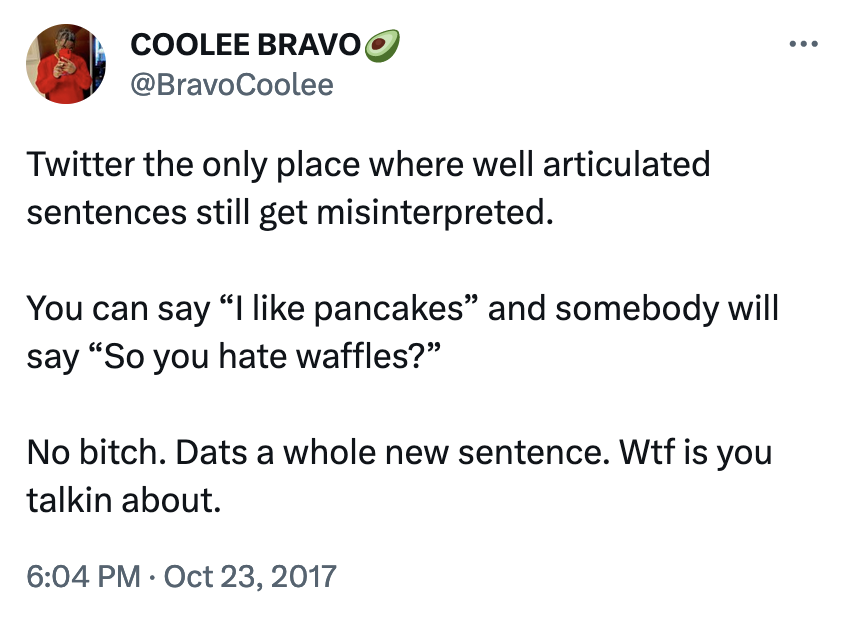
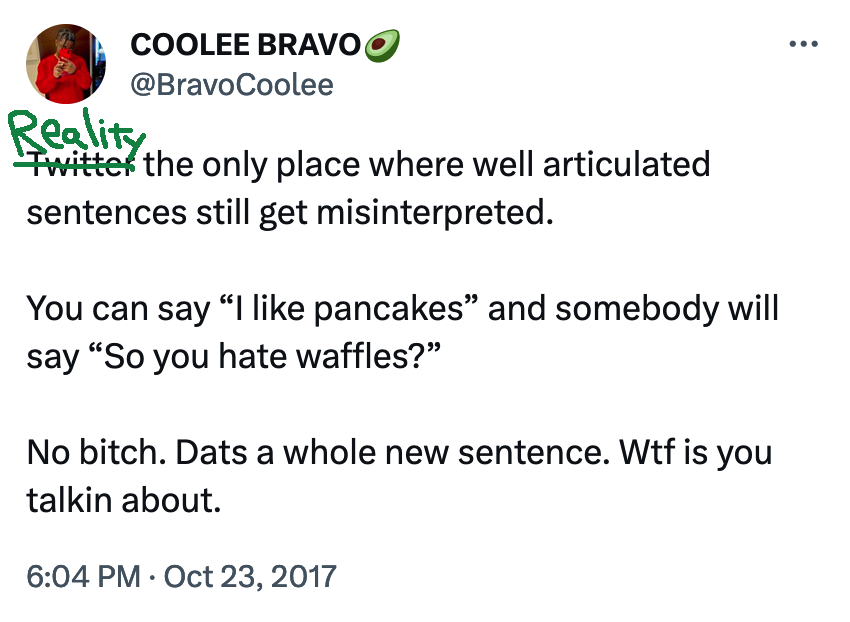
add and center

Changed region(s): [[0.0, 0.0611, 0.1835, 0.2749], [0.4282, 0.0305, 0.4894, 0.1222]]

diff --git a/index.html b/index.html
@@ -3,3 +3,5 @@ title: Home
 ---
 
 <h3>I'm Miguel Vilá, a Software Engineer from Bogotá, Colombia.</h3>
+
+<img src="/images/waffles.png" alt="Reality the only place where well articulated sentences still get misinterpreted.  You can say 'I like pancakes' and somebody will say 'So you hate waffles?' No bitch. Dats a whole new sentence. Wtf is you talking about." class="article-centered-image" style="width: 50%;"/>
